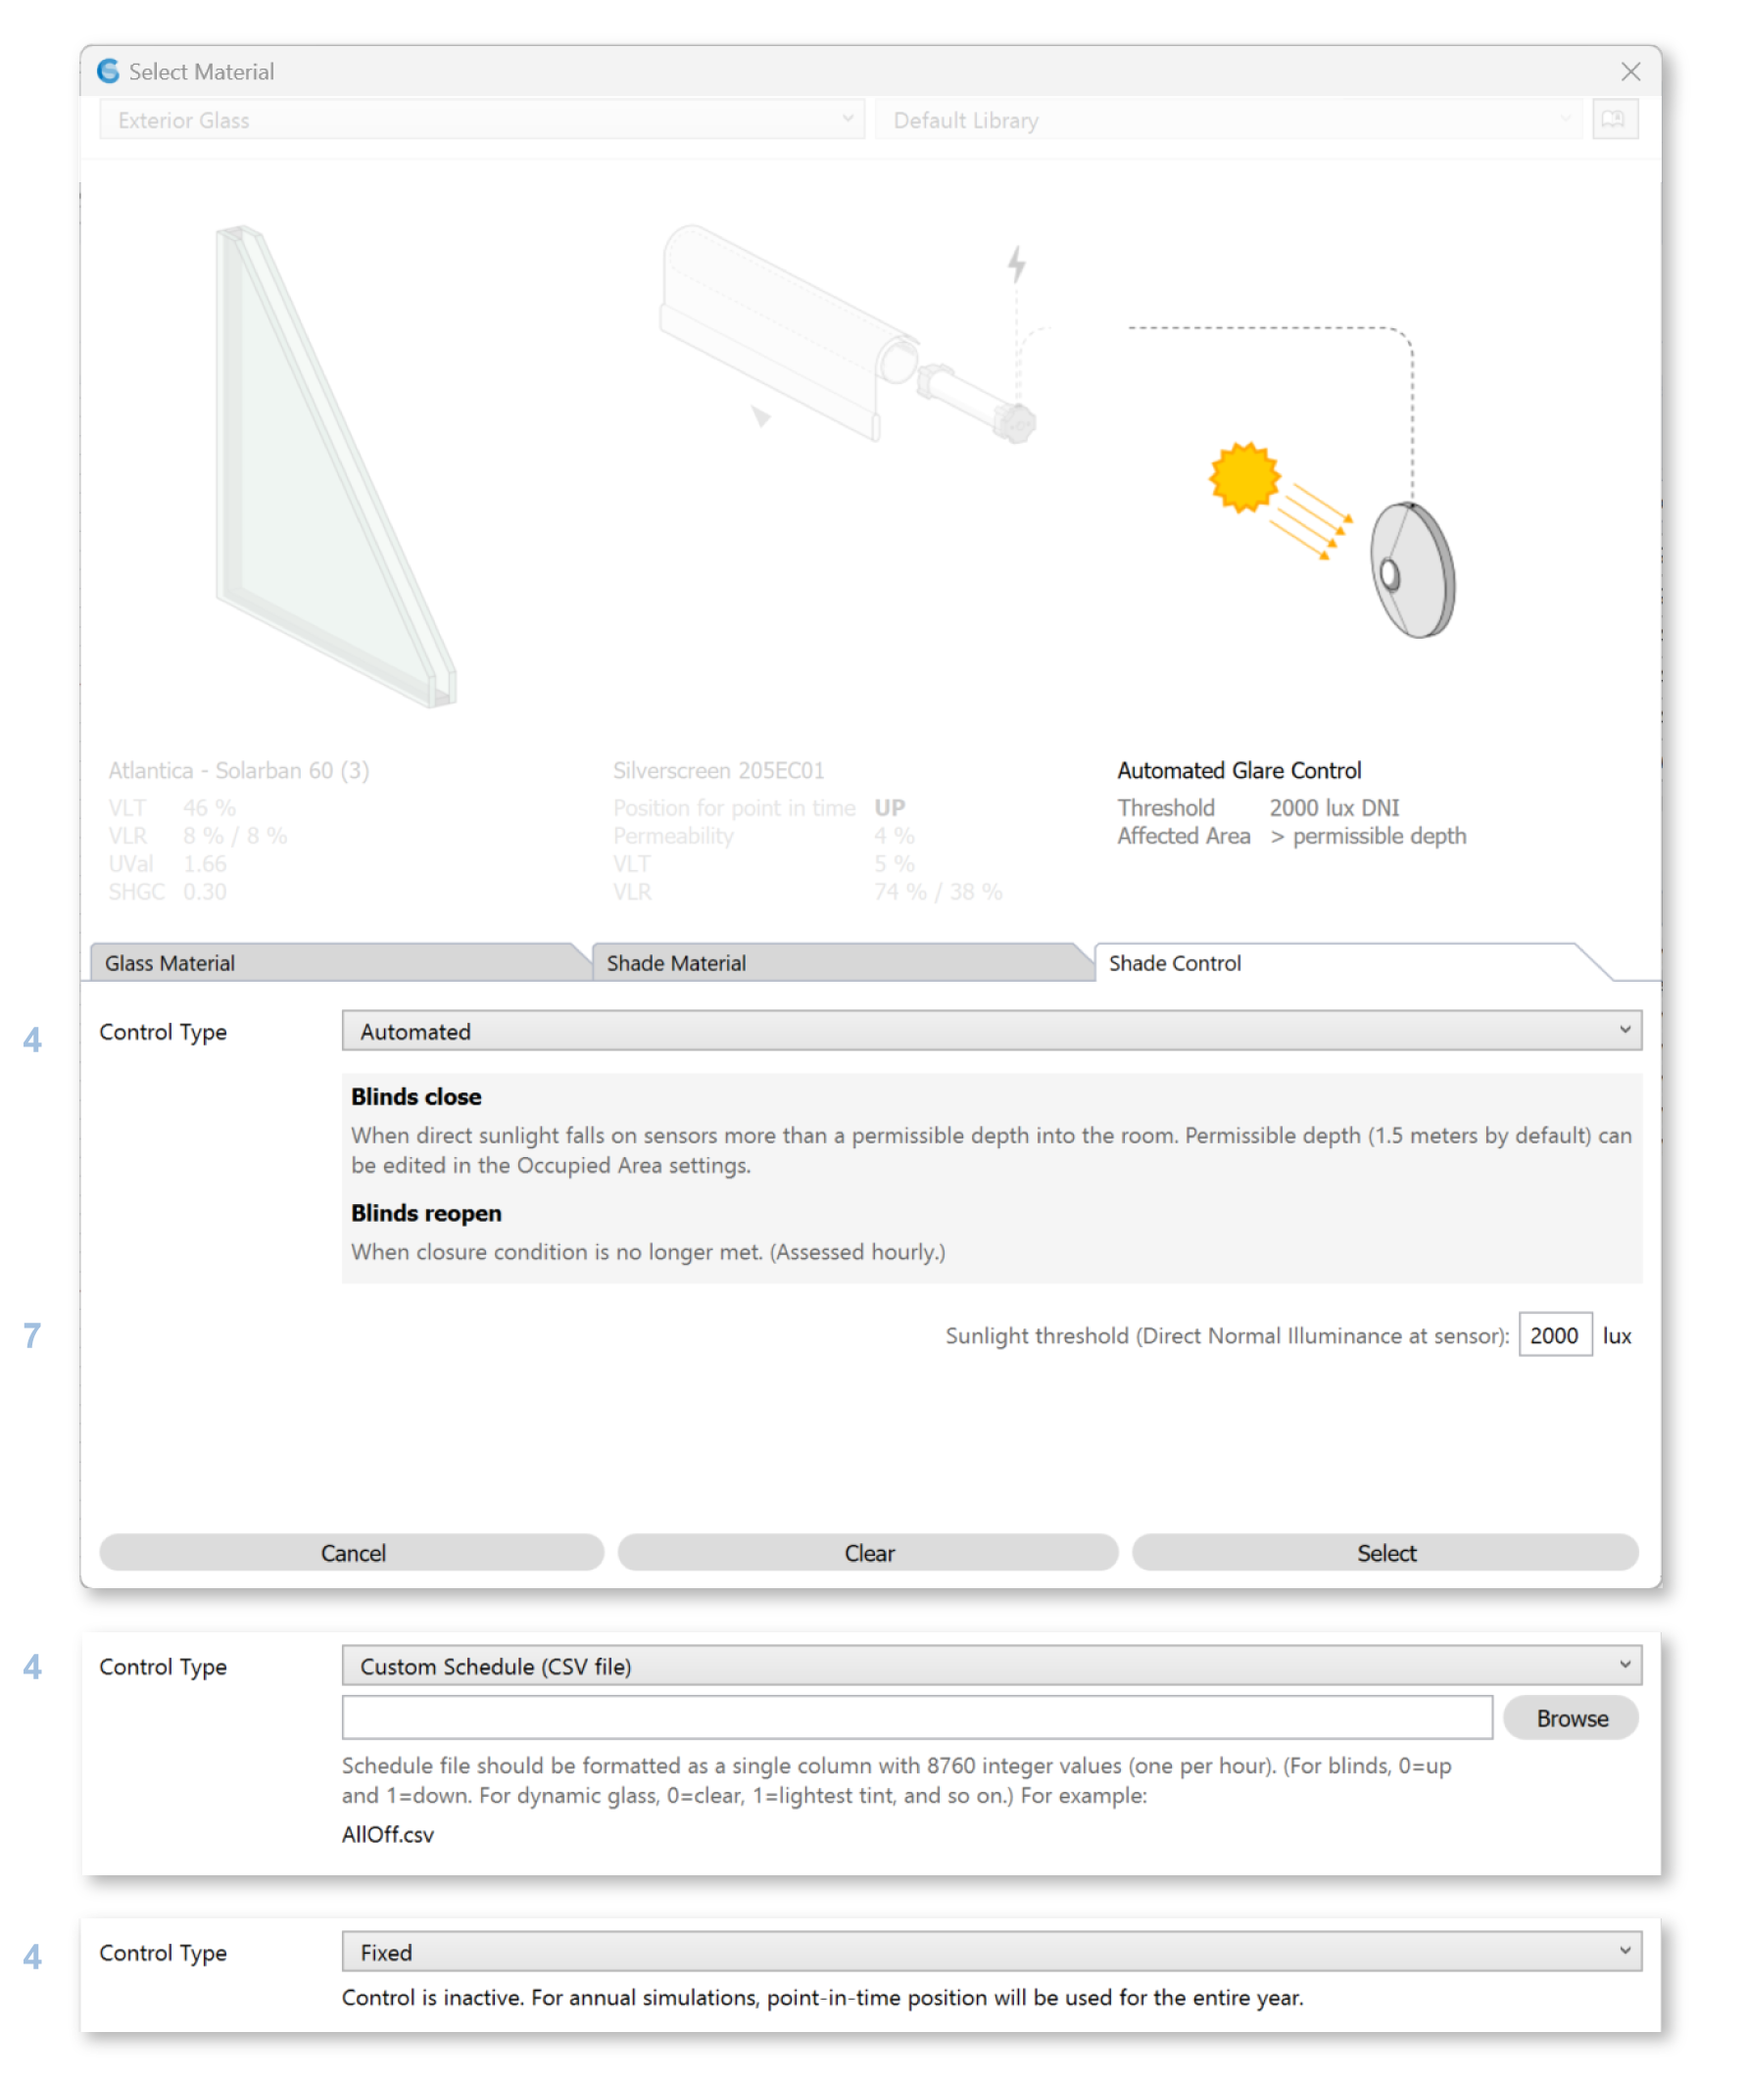
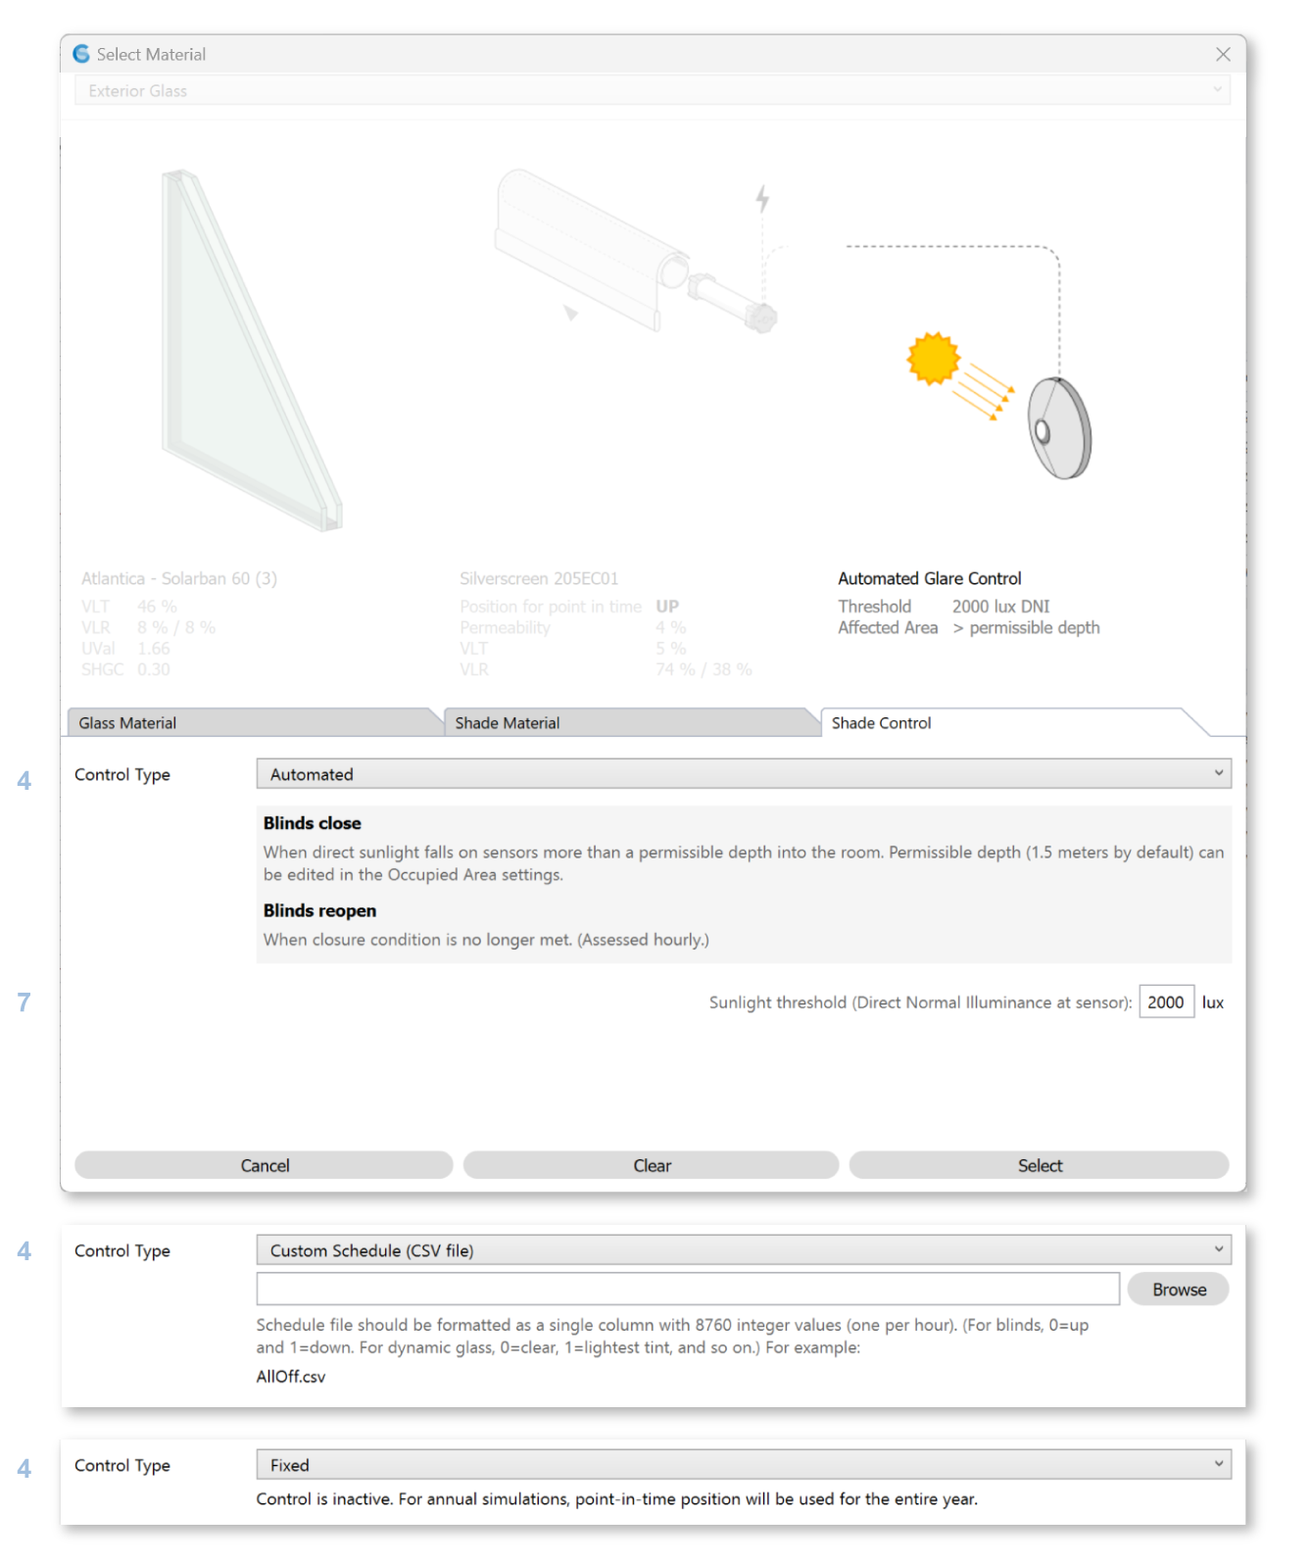
Custom Material Doc Update #21 and fixed screenshots of other material browser to remove lib dropdown

diff --git a/docs/customRadianceMaterials.rst b/docs/customRadianceMaterials.rst
@@ -1,9 +1,24 @@
-
-Custom Radiance Materials
+Custom Radiance Material
 ================================================
-ClimateStudio allows you to set up your own Radiance materials via BSDFs and .rad files and use them in conjunction with the Default library that comes with ClimateStudio. Please note that you need to be familiar with the `Radiance material modifiers`_ to use this option. 
+ClimateStudio allows you to set up your own Radiance `materials`_ via BSDFs and .rad files and use them in conjunction with the Default library that comes with ClimateStudio. Please note that you need to be familiar with the `Radiance material modifiers`_ to use this option. 
 
-.. _Radiance material modifiers: https://www.radiance-online.org/learning/documentation
+.. figure:: images/matBrowser_custom.png
+   :width: 900px
+   :align: center
+
+Use **library dropdown (1)** to switch between different custom libraries. 
+
+**Reload (2)** a library to pull new changes of library files. 
+
+Manage your custom libraries with the **library button (3)**. 
+
+The **radiance definition (4)** is shown in the text box. 
+
+Materials in this library are shown in the **table (5)**, click on one to select. 
+
+
+Defining a Custom Library
+----------------------------------------------------
 
 Step 1: Create a Library Directory
 	Create a directory in which you want to store your custom Radiance materials, e.g. ``C:\tmp\MyCustomRadianceMaterials``.  
@@ -11,18 +26,26 @@ Step 1: Create a Library Directory
 Step 2: Create a Radiance Material File
 	An example file for a bright red material can be downloaded from `here.`_ Download and copy the file into your library directory.
 	
-.. _here.: https://climatestudiodocs.com/ExampleFiles/BrightRed.rad
 
 Step 3: Link the Material Library to ClimateStudio
-	Under *Assign materials,* open the Edit Layer Material dialogue and add your custom library.
+	Click on the **library button (3)** to open the custom library manager window: 
 	
-.. figure:: images/customRadianceMaterials.jpg
-   :width: 900px
-   :align: center
+
+   .. figure:: images/matBrowser_custom_add.png
+      :width: 900px
+      :align: left
+
+   Click on the **"+" button (6)** to add a library, navigate to the library directory you created and select the entire folder. 
+   
+   To remove a library, select the library and click on the **delete button (7)**. 
+   
+   A list of your **loaded libraries** are shown in the **table (8)**. These will be the options available in the **library dropdown (1)**. 
 
 Step 4: Select Your Custom Library and Assign a Material
-	Under *Assign materials,* open the Edit Layer Material dialogue and add your custom library.
-	
-.. figure:: images/customRadianceMaterials2.jpg
-   :width: 900px
-   :align: center
+   Exit the custom library manager and select your material library in the **library dropdown (1)**. Click on one of your custom materials in the **table (5)** to select it then click the "Select" button on the bottom. 
+
+
+
+.. _Radiance material modifiers: https://www.radiance-online.org/learning/documentation
+.. _here.: https://climatestudiodocs.com/ExampleFiles/BrightRed.rad
+.. _materials: materials.html

diff --git a/docs/materials.rst b/docs/materials.rst
@@ -22,10 +22,11 @@ The library is divided into eight categories:
 - `Exterior Glass (Dynamic)`_
 - `Exterior Glass (Translucent Insulating)`_
 - `Interior Glass`_
-- Other
+- Opaque Material
 - `Dynamic Leaf`_
 - `Dynamic Snow`_
 - `Scheduled Material`_
+- `Custom Material`_
 
 .. _Exterior Glass: materials_exteriorGlass.html
 .. _Exterior Glass (Dynamic): materials_exteriorGlassDynamic.html
@@ -34,18 +35,17 @@ The library is divided into eight categories:
 .. _Dynamic Leaf: materials_dynamicLeaf.html
 .. _Dynamic Snow: materials_dynamicSnow.html
 .. _Scheduled Material: materials_scheduledMaterial.html
+.. _Custom Material: customRadianceMaterials.html
 
-Use the category dropdown (1) to switch between types of materials. 
+Use the **category dropdown (1)** to switch between types of materials. 
 
-Use library dropdown (2) to choose between different libraries or (for expert users) manage your `custom Radiance materials`_ libraries with the library button (3). 
+The top section of this dialog shows **visualization, diagrams, and properties** (physical characteristics and source data) of the material selected **(2)**. 
 
-The top section of this dialog shows visualization, diagrams, and properties (physical characteristics and source data) of the material selected (4). 
+Below the preview section are the **tabs (3)** controlling what is displayed in the table below (5).  
 
-Below the preview section are the tabs (5) controlling what is displayed in the table below (7).  
+Use the **search box (4)** to filter your options. The columns in the **table (5)** are sortable, which facilitates ordering items by material property. 
 
-Use the search box (6) to filter your options. The columns in the table (7) are sortable, which facilitates ordering items by material property. 
-
-Once selection is complete, choose either to "Cancel" (will not apply change), "Clear" (removes all material from selected layers), or "Select" (applies selected material to all selected layers) (8) to close the dialog.   
+Once selection is complete, choose either to **"Cancel"** (will not apply change), **"Clear"** (removes all material from selected layers), or **"Select"** (applies selected material to all selected layers) **(6)** to close the dialog.   
 
 
 Dynamic Material Behavior Based on Workflow

diff --git a/docs/materials_exteriorGlass.rst b/docs/materials_exteriorGlass.rst
@@ -11,9 +11,9 @@ Please note that in the 3D Rhino model, **window assemblies must be modeled as s
 
 Exterior glazing consists of three components, use tabs to edit each component: 
 
-| 1 -  Glazing Materials
-| 2 -  Shade Materials
-| 3 -  Shade Control
+| **1 -  Glazing Materials**
+| **2 -  Shade Materials**
+| **3 -  Shade Control**
 
 Click on a material in the table to select glass material. 
 
@@ -23,7 +23,7 @@ Shading systems and their operation are simulated by the `Daylight Availability`
 
 This shade system will be applied to all surfaces in the Rhino layer this exterior glazing assembly is applied to. 
 
-Click on **Shade Materials** tab (2) to open shade materials table. 
+Click on **Shade Materials tab (2)**  to open shade materials table. 
 
 .. figure:: images/matBrowser_ex_shade.png
    :width: 900px
@@ -33,23 +33,23 @@ Click on a material in the table to select that material.
 
 Shades Control (Annual Workflows)
 ----------------------------------------------------
-**Shade Control** tab (3) controls the behavior of shades throughout the year. This will affect all `annual workflows`_. 
+**Shade Control tab (3)** controls the behavior of shades throughout the year. This will affect all `annual workflows`_. 
 
 .. figure:: images/matBrowser_ex_Control.png
    :width: 900px
    :align: center
 
-There are four **Types of Shade Controls** (4): 
+There are four **Types of Shade Controls (4)**: 
 
 - Manual
 
-  - Behavior (5)
+  - **Behavior (5)**
 
     - Default
 
     - LM83  
  
-  - Blinds reopen (6)
+  - **Blinds reopen (6)**
 
     - The following morning 
 
@@ -65,7 +65,7 @@ There are four **Types of Shade Controls** (4):
    :width: 900px
    :align: center
 
-Both Manual and Automated uses 2000 lux as sunlight threshold (7) for engaging the blinds by default. 
+Both Manual and Automated uses 2000 lux as **sunlight threshold (7)** for engaging the blinds by default. 
 
 Shades Control (Point-In-Time Workflows)
 ----------------------------------------------------

diff --git a/docs/materials_scheduledMaterial.rst b/docs/materials_scheduledMaterial.rst
@@ -12,11 +12,11 @@ The color of the graph is based on the material's color and the transparency rep
 
 If a `point-in-time workflow`_ is selected, the arrow on the x-axis and the box highlighting the hour shows the **point-in-time state** selected. This can be changed by selecting a different date and time in the `Sky`_ Sub-panel. 
 
-Select any material from the **"Material"** tab (1) by clicking on the materials table. 
+Select any material from the **"Material" tab (1)** by clicking on the materials table. 
 
-To change the schedule and the transparency fraction behavior, use the **"Dynamic Behavior"** tab (2): 
+To change the schedule and the transparency fraction behavior, use the **"Dynamic Behavior" tab (2)**: 
 
-| 3 - Three different **Transparency Types**: 
+| **3** - Three different **Transparency Types**: 
 
   - **Alpha Transparency** uses the fraction as alpha transparency of the material, where 0 is transparent and 1 is opaque. 
 
@@ -24,7 +24,7 @@ To change the schedule and the transparency fraction behavior, use the **"Dynami
 
   - **MeshFaceScaling** renders the material as is while using the fraction to scale all mesh faces around their first vertex to achieve the global transparent effect. 0 means no mesh faces (scaled by 0 to nonexistent) and 1 means full (original) sized mesh faces. 
 
-| 4 - Click on the **Schedule button** to change schedules in the `schedule editor`_. 
+| **4** - Click on the **Schedule button** to change schedules in the `schedule editor`_. 
 
 This material's `behavior varies slightly based on the workflow selected`_. 
 

diff --git a/docs/blinds.rst b/docs/blinds.rst
@@ -1,6 +1,7 @@
 Blinds
 ================================================
-ClimateStudio supports modeling dynamic shading systems such as fabric blinds and switchable glazings. These systems and their operation are simulated by the `Daylight Availability`_ workflow when calculating hourly illuminance distributions. In many cases, the inclusion of dynamic shading is not optional. The calculation of Spatial Daylight Autonomy (sDA) and eligibility for the LEED v4 Daylight credit (Option 1) require dynamic shading to be modeled on all exterior windows. To assign a shading system to one or more glazing surfaces, left-click the Add Blind button (1) atop the Blinds panel and select the desired surfaces in the Rhino model.
+ClimateStudio supports modeling dynamic shading systems such as fabric blinds and switchable glazings. 
+These systems and their operation are simulated by the `Daylight Availability`_ workflow when calculating hourly illuminance distributions. In many cases, the inclusion of dynamic shading is not optional. The calculation of Spatial Daylight Autonomy (sDA) and eligibility for the LEED v4 Daylight credit (Option 1) require dynamic shading to be modeled on all exterior windows. To assign a shading system to one or more glazing surfaces, left-click the Add Blind button (1) atop the Blinds panel and select the desired surfaces in the Rhino model.
 
 .. _Daylight Availability: daylightAvailability.html
 

diff --git a/docs/materials_exteriorGlassDynamic.rst b/docs/materials_exteriorGlassDynamic.rst
@@ -12,9 +12,9 @@ Please note that in the 3D Rhino model, **window assemblies must be modeled as s
 Tint State (Annual Workflows)
 ----------------------------------------------------
 
-**Tint states** in `annual workflows`_ are usually controlled by a sensor (Automated) but this can be changed in the **"Tint Control"** tab (2). "Tint Control" has similar options as the **"Shade Control" tab** mentioned `here`_. 
+**Tint states** in `annual workflows`_ are usually controlled by a sensor (Automated) but this can be changed in the **"Tint Control" tab (2)**. "Tint Control" has similar options as the **"Shade Control" tab** mentioned `here`_. 
 
-There are four **Types of Tint Controls** (3): 
+There are four **Types of Tint Controls (3)**: 
 
 - Manual
 
@@ -36,7 +36,7 @@ There are four **Types of Tint Controls** (3):
 
 - Fixed - current point-in-time state - will affect `other workflows`_
 
-Both Manual and Automated uses 2000 lux as sunlight threshold (4) for engaging the blinds by default. 
+Both Manual and Automated uses 2000 lux as **sunlight threshold (4)** for engaging the blinds by default. 
 
 
 Tint State (Point-In-Time Workflows)

diff --git a/docs/materials_dynamicLeaf.rst b/docs/materials_dynamicLeaf.rst
@@ -9,7 +9,7 @@ Dynamic Leaf `materials`_ are created from species-specific measured data provid
    
 With the measured data for **leaf colors in summer and fall**, we interpolate by hue for a transition gradient between the two colors through the seasons. 
 
-**Leaf Schedule** (1) is calculated based on project location's length of day (latitude) and determines when the leaves change color and size. 
+**Leaf Schedule (1)** is calculated based on project location's length of day (latitude) and determines when the leaves change color and size. 
 
 The preview of a dynamic leaf material is a graph of leaf color throughout the year on the x-axis with leaf size from none to full size on the y-axis. Leaf mesh triangles are scaled based on leaf size to achieve gradual changes in density from leaf growth to leaf fall. 
 

diff --git a/docs/materials_dynamicSnow.rst b/docs/materials_dynamicSnow.rst
@@ -7,7 +7,7 @@ Dynamic Snow `material`_ mimics the reflectivity of snow in winter.
    :width: 900px
    :align: center
 
-**Snow Schedule** (1) is calculated based on project location's dry-bulb temperature. Snow will start to appear for consecutive days of below freezing and disappear for consecutive days of warmer temperature. 
+**Snow Schedule (1)** is calculated based on project location's dry-bulb temperature. Snow will start to appear for consecutive days of below freezing and disappear for consecutive days of warmer temperature. 
 
 The preview of a dynamic snow material is a graph of the snow throughout the year on the x-axis and fraction of snow coverage in the y-axis. Currently the fraction represents the alpha transparency of the snow material in each day of the year. 
 
